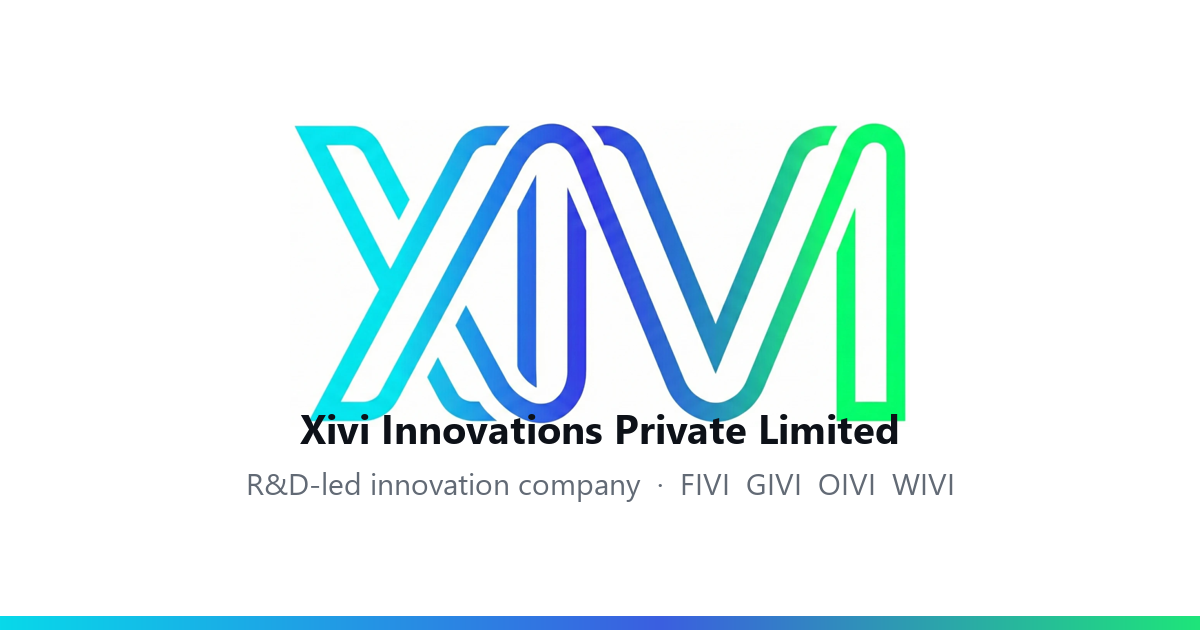
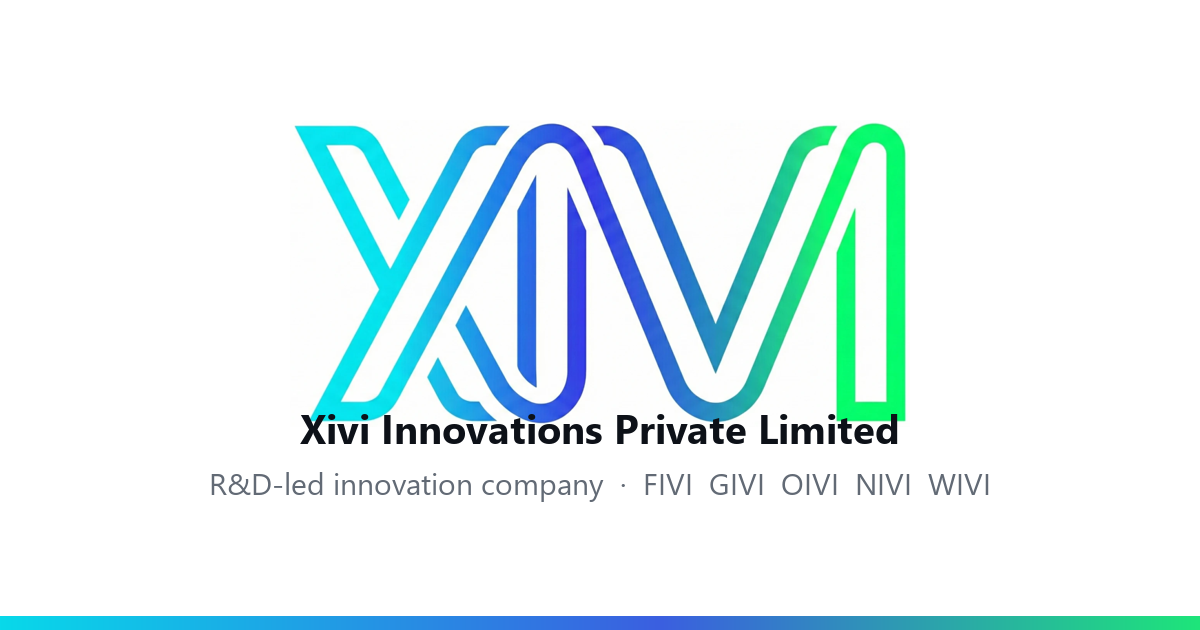
Add NIVI to the XIVI parent site

Changed region(s): [[0.1542, 0.754, 0.8325, 0.7841]]

diff --git a/index.html b/index.html
@@ -5,11 +5,11 @@
 <meta name="viewport" content="width=device-width, initial-scale=1">
 <meta name="color-scheme" content="only light">
 <title>XIVI — R&D-led innovation company</title>
-<meta name="description" content="XIVI is an R&D-led innovation company building products in fintech, healthtech and environmental technology: FIVI, GIVI, OIVI and WIVI.">
+<meta name="description" content="XIVI is an R&D-led innovation company building products in fintech, healthtech and environmental technology: FIVI, GIVI, OIVI, NIVI and WIVI.">
 <meta property="og:type" content="website">
 <meta property="og:site_name" content="XIVI">
 <meta property="og:title" content="XIVI — R&D-led innovation company">
-<meta property="og:description" content="Products in fintech, healthtech and environmental technology: FIVI, GIVI, OIVI and WIVI.">
+<meta property="og:description" content="Products in fintech, healthtech and environmental technology: FIVI, GIVI, OIVI, NIVI and WIVI.">
 <meta property="og:url" content="https://xivi.work/">
 <meta property="og:image" content="https://xivi.work/assets/og.png">
 <meta name="twitter:card" content="summary_large_image">
@@ -17,7 +17,7 @@
 <link rel="preconnect" href="https://fonts.googleapis.com">
 <link rel="preconnect" href="https://fonts.gstatic.com" crossorigin>
 <link href="https://fonts.googleapis.com/css2?family=Inter:wght@400;500;600;700&display=swap" rel="stylesheet">
-<link rel="stylesheet" href="assets/hub.css?v=2">
+<link rel="stylesheet" href="assets/hub.css?v=3">
 </head>
 <body>
 
@@ -48,12 +48,13 @@
       </div>
     </div>
 
-    <div class="family" aria-label="XIVI and its four products">
+    <div class="family" aria-label="XIVI and its five products">
       <img class="big" src="assets/xivi-logo.png" alt="XIVI">
       <div class="rail">
         <a href="https://fivi.xivi.work"><img src="assets/fivi-mark.svg" alt="">FIVI</a>
         <a href="https://givi.xivi.work"><img src="assets/givi-mark.svg" alt="">GIVI</a>
         <a href="https://oivi.xivi.work"><img src="assets/oivi-mark.svg" alt="">OIVI</a>
+        <a href="https://nivi.xivi.work"><img src="assets/nivi-mark.svg" alt="">NIVI</a>
         <a href="https://wivi.xivi.work"><img src="assets/wivi-mark.svg" alt="">WIVI</a>
       </div>
     </div>
@@ -63,7 +64,7 @@
 <section id="products">
   <div class="wrap">
     <p class="eyebrow">Products</p>
-    <h2>Four products in three sectors.</h2>
+    <h2>Five products in three sectors.</h2>
 
     <div class="plist">
 
@@ -89,6 +90,11 @@
           <a class="prod soon" href="https://oivi.xivi.work" style="--acc:#5148c8">
             <img src="assets/oivi-mark.svg" alt="">
             <span><span class="n">OIVI</span><span class="t">Oncology detection and therapy devices</span></span>
+            <span class="go"><span class="status soon">Coming soon</span><span class="arrow" aria-hidden="true">→</span></span>
+          </a>
+          <a class="prod soon" href="https://nivi.xivi.work" style="--acc:#a3358a">
+            <img src="assets/nivi-mark.svg" alt="">
+            <span><span class="n">NIVI</span><span class="t">Neural diagnostic and therapy devices</span></span>
             <span class="go"><span class="status soon">Coming soon</span><span class="arrow" aria-hidden="true">→</span></span>
           </a>
         </div>
@@ -118,7 +124,7 @@
     </div>
     <div class="facts">
       <div><b>1</b><span>Company</span></div>
-      <div><b>4</b><span>Products</span></div>
+      <div><b>5</b><span>Products</span></div>
       <div><b>3</b><span>Sectors</span></div>
     </div>
   </div>
@@ -161,7 +167,7 @@
       </div>
       <div class="fcols">
         <div><h4>Fintech</h4><a href="https://fivi.xivi.work">FIVI</a></div>
-        <div><h4>Healthtech</h4><a href="https://givi.xivi.work">GIVI</a><a href="https://oivi.xivi.work">OIVI</a></div>
+        <div><h4>Healthtech</h4><a href="https://givi.xivi.work">GIVI</a><a href="https://oivi.xivi.work">OIVI</a><a href="https://nivi.xivi.work">NIVI</a></div>
         <div><h4>Climate and environment</h4><a href="https://wivi.xivi.work">WIVI</a></div>
         <div><h4>Company</h4><a href="#about">About</a><a href="#contact">Contact</a><a href="privacy.html">Privacy policy</a></div>
       </div>

diff --git a/assets/hub.css b/assets/hub.css
@@ -45,11 +45,11 @@ header{position:sticky;top:0;z-index:20;background:rgba(255,255,255,.92);backdro
 .hero .cta{display:flex;gap:14px;flex-wrap:wrap;margin-top:40px}
 .family{display:grid;gap:44px}
 .family .big{width:100%;max-width:470px;mix-blend-mode:multiply;justify-self:start}
-.rail{position:relative;display:grid;grid-template-columns:repeat(4,1fr);gap:12px;padding-top:34px;max-width:470px}
-.rail::before{content:"";position:absolute;left:28px;right:28px;top:0;height:2px;background:var(--grad);border-radius:2px}
+.rail{position:relative;display:grid;grid-template-columns:repeat(5,1fr);gap:10px;padding-top:34px;max-width:470px}
+.rail::before{content:"";position:absolute;left:26px;right:26px;top:0;height:2px;background:var(--grad);border-radius:2px}
 .rail a{position:relative;display:flex;flex-direction:column;align-items:center;gap:10px;text-decoration:none;font-size:12.5px;font-weight:700;letter-spacing:.12em;color:var(--ink2)}
 .rail a::before{content:"";position:absolute;top:-34px;left:50%;width:2px;height:34px;background:var(--line)}
-.rail img{width:58px;height:58px;transition:transform .18s}
+.rail img{width:52px;height:52px;transition:transform .18s}
 .rail a:hover img{transform:translateY(-3px)}
 .rail a:hover{color:var(--ink)}
 @media(max-width:900px){.hero{padding:56px 0 64px}.hero .wrap{grid-template-columns:1fr;gap:56px}}

diff --git a/privacy.html b/privacy.html
@@ -10,7 +10,7 @@
 <link rel="preconnect" href="https://fonts.googleapis.com">
 <link rel="preconnect" href="https://fonts.gstatic.com" crossorigin>
 <link href="https://fonts.googleapis.com/css2?family=Inter:wght@400;500;600;700&display=swap" rel="stylesheet">
-<link rel="stylesheet" href="assets/hub.css?v=2">
+<link rel="stylesheet" href="assets/hub.css?v=3">
 </head>
 <body>
 

diff --git a/README.md b/README.md
@@ -2,7 +2,7 @@
 
 Website for Xivi Innovations Private Limited: https://xivi.work
 
-Products: FIVI (fivi.xivi.work), GIVI (givi.xivi.work), OIVI (oivi.xivi.work), WIVI (wivi.xivi.work).
+Products: FIVI (fivi.xivi.work), GIVI (givi.xivi.work), OIVI (oivi.xivi.work), NIVI (nivi.xivi.work), WIVI (wivi.xivi.work).
 
 (c) 2026 Xivi Innovations Private Limited. All rights reserved.
 
